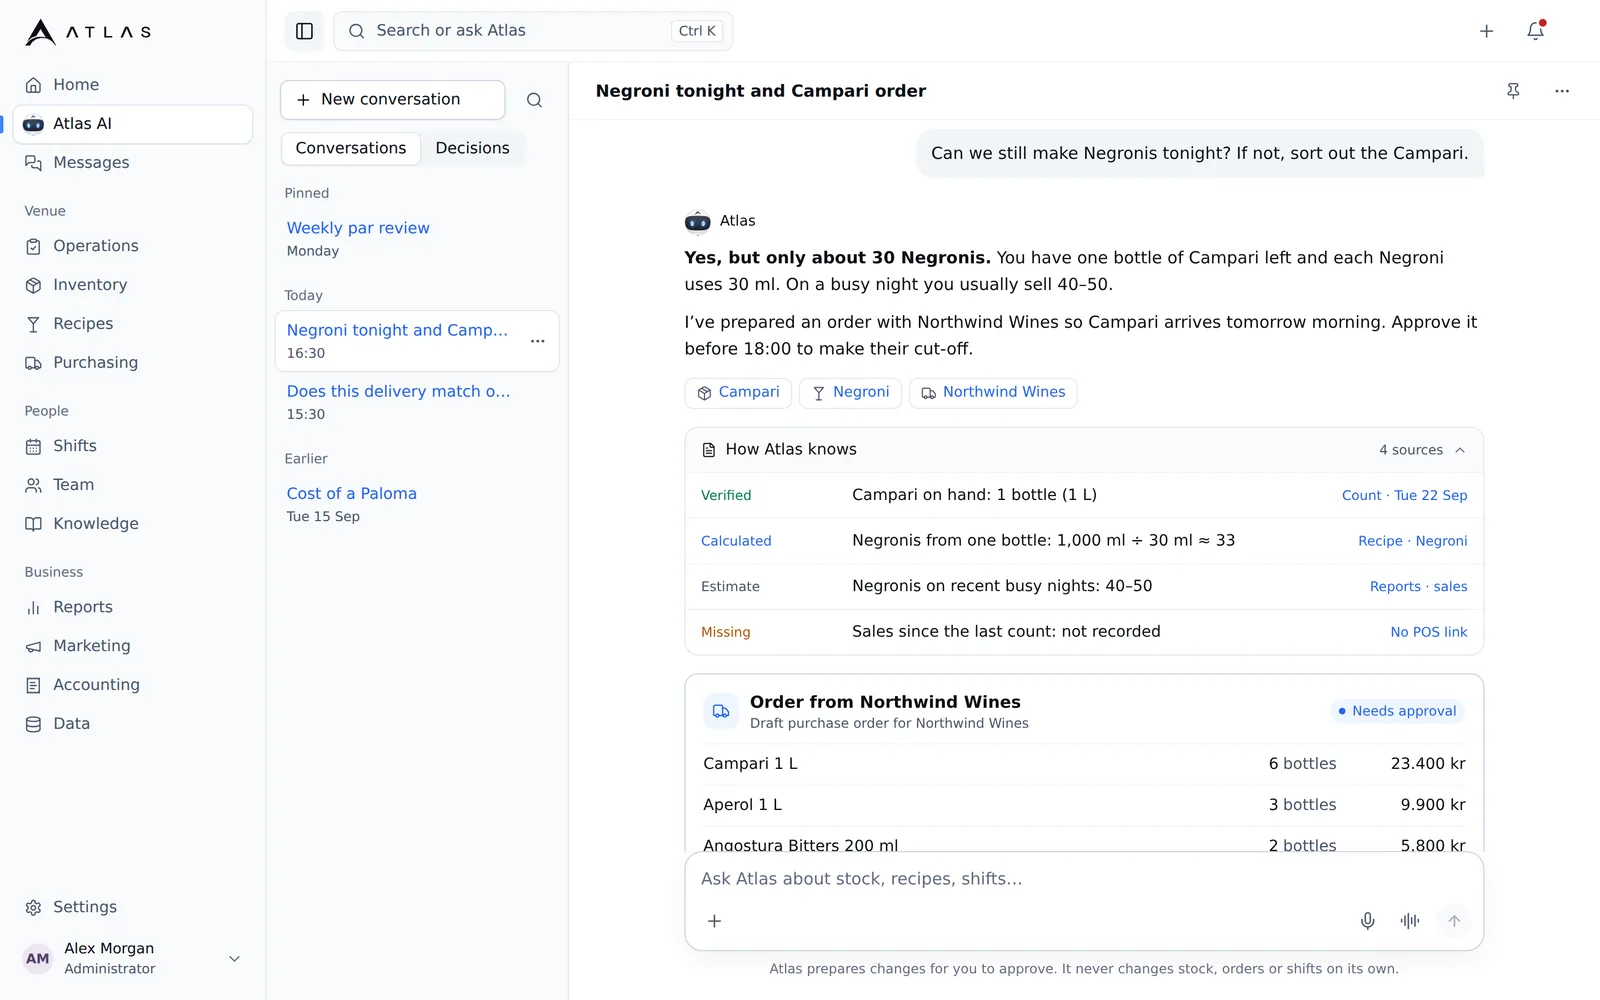
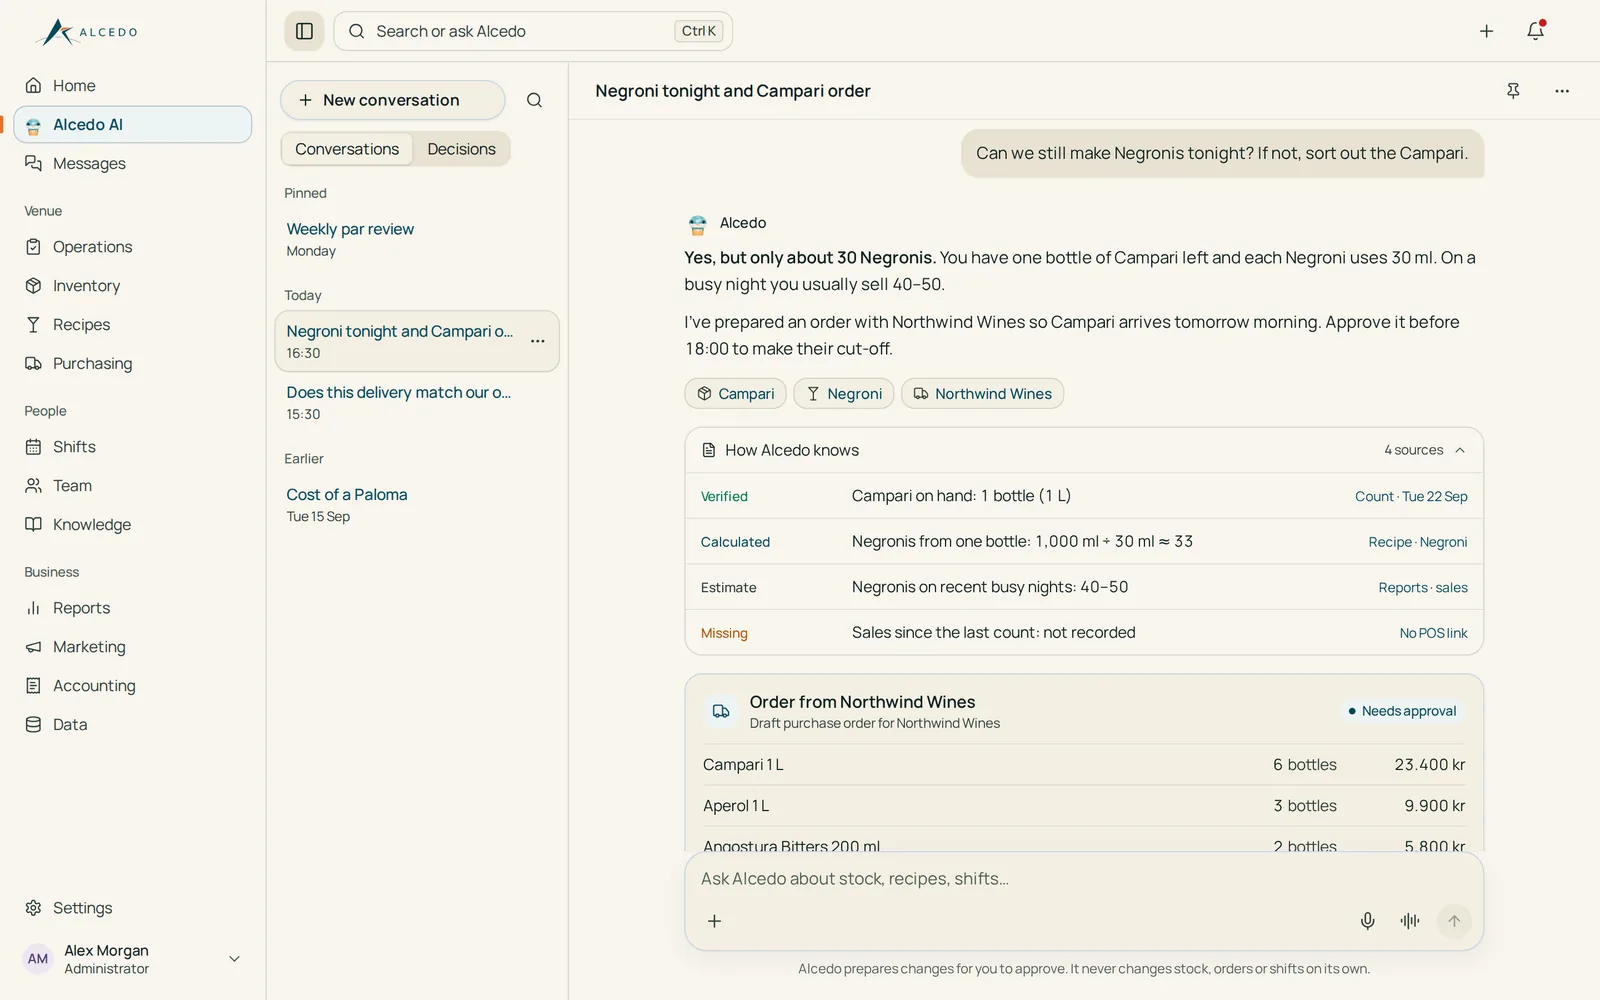
Alcedo prototype: screenshots from the Alcedo pre-release build (PR #113)
Replaces the nine product-tour screenshots with captures of the
Alcedo-branded pre-release build (PR #113, 4e1e5d6), rendered in that
commit's mocked test backend with the same fictional sample data (no
production data; no Atlas wording in any shot). Captions, tour intro,
brand note, README and INVENTORY.md updated.

Claude-Session: https://claude.ai/code/session_01U4atnVpSDDZKK7gpwYdJjA

diff --git a/prototypes/alcedo-website/index.html b/prototypes/alcedo-website/index.html
@@ -723,7 +723,7 @@ h1, h2, h3, p, ul, ol, figure, dl, dd { margin: 0; }
         </div>
         <div class="reveal-up" style="--i:1">
           <p class="intro__text">Explore how Alcedo connects restaurant workflows, knowledge, and assistance. Discover the platform and explore implemented capabilities and upcoming features.</p>
-          <p class="brand-note">Alcedo is the new brand direction for Atlas. Screenshots on this page show the current application, which still carries the Atlas name.</p>
+          <p class="brand-note">Alcedo is the new brand direction for Atlas. Screenshots on this page show the Alcedo-branded pre-release build of the application.</p>
           <!-- [STATUS] legend -->
           <dl class="legend" aria-label="Status labels">
             <div><dt><span class="status">Implemented</span></dt><dd>Built in the current application and checked against its code. Production rollout is not confirmed on this page.</dd></div>
@@ -873,7 +873,7 @@ h1, h2, h3, p, ul, ol, figure, dl, dd { margin: 0; }
           <p class="kicker mono">03 Inside the workspace</p>
           <h2 class="section-title" id="tour-title">See the modules <em>as they are today.</em></h2>
         </div>
-        <p class="intro__text reveal-up" style="--i:1">Screenshots from the current application running against built-in test data: every name, quantity and price is sample data, not a real venue’s records.</p>
+        <p class="intro__text reveal-up" style="--i:1">Screenshots from the Alcedo pre-release build running against built-in test data: every name, quantity and price is sample data, not a real venue’s records.</p>
       </div>
       <div class="tabs" role="tablist" aria-label="Modules" hidden></div>
       <div class="tour__panel" id="tour-inventory" data-tab="Inventory">
@@ -886,7 +886,7 @@ h1, h2, h3, p, ul, ol, figure, dl, dd { margin: 0; }
         <figure class="shot">
           <img src="assets/screens/inventory.webp" width="1600" height="1000" loading="lazy" decoding="async" alt="Inventory table in the current application with eight sample bar items, their par levels and stock status.">
           <span class="shot__label">Sample data</span>
-          <figcaption>Current application · built-in test data</figcaption>
+          <figcaption>Alcedo pre-release build · built-in test data</figcaption>
         </figure>
       </div>
       <div class="tour__panel" id="tour-purchasing" data-tab="Purchasing">
@@ -899,7 +899,7 @@ h1, h2, h3, p, ul, ol, figure, dl, dd { margin: 0; }
         <figure class="shot">
           <img src="assets/screens/purchasing.webp" width="1600" height="1000" loading="lazy" decoding="async" alt="Purchasing view with a suggested order and two sample orders, one waiting for approval.">
           <span class="shot__label">Sample data</span>
-          <figcaption>Current application · built-in test data</figcaption>
+          <figcaption>Alcedo pre-release build · built-in test data</figcaption>
         </figure>
       </div>
       <div class="tour__panel" id="tour-recipes" data-tab="Recipes">
@@ -912,7 +912,7 @@ h1, h2, h3, p, ul, ol, figure, dl, dd { margin: 0; }
         <figure class="shot">
           <img src="assets/screens/recipes.webp" width="1600" height="1000" loading="lazy" decoding="async" alt="Recipe cards for four sample drinks, showing which can be served from current stock.">
           <span class="shot__label">Sample data</span>
-          <figcaption>Current application · built-in test data</figcaption>
+          <figcaption>Alcedo pre-release build · built-in test data</figcaption>
         </figure>
       </div>
       <div class="tour__panel" id="tour-stock-count" data-tab="Stock count">
@@ -925,7 +925,7 @@ h1, h2, h3, p, ul, ol, figure, dl, dd { margin: 0; }
         <figure class="shot">
           <img src="assets/screens/stock-count.webp" width="1600" height="1000" loading="lazy" decoding="async" alt="A stock count in progress for a sample back bar, counting one item at a time.">
           <span class="shot__label">Sample data</span>
-          <figcaption>Current application · built-in test data</figcaption>
+          <figcaption>Alcedo pre-release build · built-in test data</figcaption>
         </figure>
       </div>
       <div class="tour__panel" id="tour-shifts" data-tab="Shifts">
@@ -938,7 +938,7 @@ h1, h2, h3, p, ul, ol, figure, dl, dd { margin: 0; }
         <figure class="shot">
           <img src="assets/screens/shifts.webp" width="1600" height="1000" loading="lazy" decoding="async" alt="Weekly shift schedule with four fictional team members.">
           <span class="shot__label">Sample data · fictional staff</span>
-          <figcaption>Current application · built-in test data</figcaption>
+          <figcaption>Alcedo pre-release build · built-in test data</figcaption>
         </figure>
       </div>
       <div class="tour__panel" id="tour-reports" data-tab="Reports">
@@ -951,7 +951,7 @@ h1, h2, h3, p, ul, ol, figure, dl, dd { margin: 0; }
         <figure class="shot">
           <img src="assets/screens/reports.webp" width="1600" height="1000" loading="lazy" decoding="async" alt="Reports overview with sample purchasing spend, recipe margin and items needing attention.">
           <span class="shot__label">Sample data</span>
-          <figcaption>Current application · built-in test data</figcaption>
+          <figcaption>Alcedo pre-release build · built-in test data</figcaption>
         </figure>
       </div>
       <div class="tour__panel" id="tour-ai" data-tab="Alcedo AI">
@@ -964,7 +964,7 @@ h1, h2, h3, p, ul, ol, figure, dl, dd { margin: 0; }
         <figure class="shot">
           <img src="assets/screens/ai.webp" width="1600" height="1000" loading="lazy" decoding="async" alt="Scripted sample conversation in which the assistant checks Campari stock and prepares a draft order for approval.">
           <span class="shot__label">Scripted demonstration · sample data</span>
-          <figcaption>Current application · built-in test data</figcaption>
+          <figcaption>Alcedo pre-release build · built-in test data</figcaption>
         </figure>
       </div>
       <div class="tour__panel" id="tour-food-intelligence" data-tab="Food Intelligence">
@@ -977,7 +977,7 @@ h1, h2, h3, p, ul, ol, figure, dl, dd { margin: 0; }
         <figure class="shot">
           <img src="assets/screens/food-intelligence.webp" width="1600" height="1000" loading="lazy" decoding="async" alt="Flavor Map showing sample pairings for London dry gin and which ingredients are in stock.">
           <span class="shot__label">Sample data</span>
-          <figcaption>Current application · built-in test data</figcaption>
+          <figcaption>Alcedo pre-release build · built-in test data</figcaption>
         </figure>
       </div>
       <div class="tour__panel" id="tour-training" data-tab="Training">
@@ -990,7 +990,7 @@ h1, h2, h3, p, ul, ol, figure, dl, dd { margin: 0; }
         <figure class="shot">
           <img src="assets/screens/training.webp" width="1600" height="1000" loading="lazy" decoding="async" alt="Training library in a pre-release build with four sample lessons.">
           <span class="shot__label">Sample lessons · pre-release build</span>
-          <figcaption>Current application · built-in test data</figcaption>
+          <figcaption>Alcedo pre-release build · built-in test data</figcaption>
         </figure>
       </div>
     </div>

diff --git a/prototypes/alcedo-website/tools/build_inventory.py b/prototypes/alcedo-website/tools/build_inventory.py
@@ -26,7 +26,7 @@ def provenance(rel):
     if '/assets/brand/' in rel: return KIT
     if name == 'alcedo-kingfisher-master.webp': return 'Supplied approved mascot master, byte-identical (1214×1295, genuine alpha)'
     if '/assets/mascot/' in rel: return 'Derived: mascot master, alpha clean-up and rectangular crop only (tools/build_mascot_assets.py)'
-    if '/assets/screens/' in rel: return 'Captured: apps/web in the mocked test harness, fictional sample data, WebP 1600×1000'
+    if '/assets/screens/' in rel: return 'Captured: Alcedo pre-release build (PR #113, 4e1e5d6) in the mocked test harness, fictional sample data, WebP 1600×1000'
     if '/tools/' in rel: return 'Authored: build/verification tool'
     return 'Authored'
 

diff --git a/prototypes/alcedo-website/INVENTORY.md b/prototypes/alcedo-website/INVENTORY.md
@@ -6,7 +6,7 @@ Nothing outside `prototypes/` is changed (no `apps/`, `scripts/`, `supabase/`, `
 | Status | Path | Bytes | SHA-256 | Used by Alcedo page | Provenance |
 |---|---|---:|---|---|---|
 | A | `prototypes/alcedo-website/INVENTORY.md` | — | (this file) | — | Authored |
[5 lines of base64/hex data omitted]
@@ -20,21 +20,21 @@ Nothing outside `prototypes/` is changed (no `apps/`, `scripts/`, `supabase/`, `
[30 lines of base64/hex data omitted]
 
-Total (excluding this file): 2,720,646 bytes.
+Total (excluding this file): 2,715,150 bytes.

diff --git a/prototypes/alcedo-website/README.md b/prototypes/alcedo-website/README.md
@@ -183,7 +183,10 @@ Results for this revision:
 
 ## Screenshots and privacy
 
-The screenshots show the real `apps/web` UI running in the repository's mocked backend (`tests/browser/harness.mjs`), with a frozen clock and no production traffic.
+The screenshots show the Alcedo-branded pre-release build of the app, from PR #113 at commit `4e1e5d6` (the build behind `deploy-preview-113--os-vabar.netlify.app`).
+
+- **How they were captured:** that build's `apps/web` ran in the same commit's mocked backend (`tests/browser/harness.mjs`), with a frozen clock and no production traffic. The deploy preview itself was not reachable from the capture environment, and it would have shown real venue data.
+- **Branding:** no "Atlas" wording appears in any screenshot.
 
 - **Replaced before capture:** fixture names that could be real people, the venue name and Icelandic supplier names ("Alex Morgan", "Harbor Bar", "Northwind Wines", …).
 - **Checked afterwards:** every shot's visible text, for the original names, emails and phone numbers; none remain.
